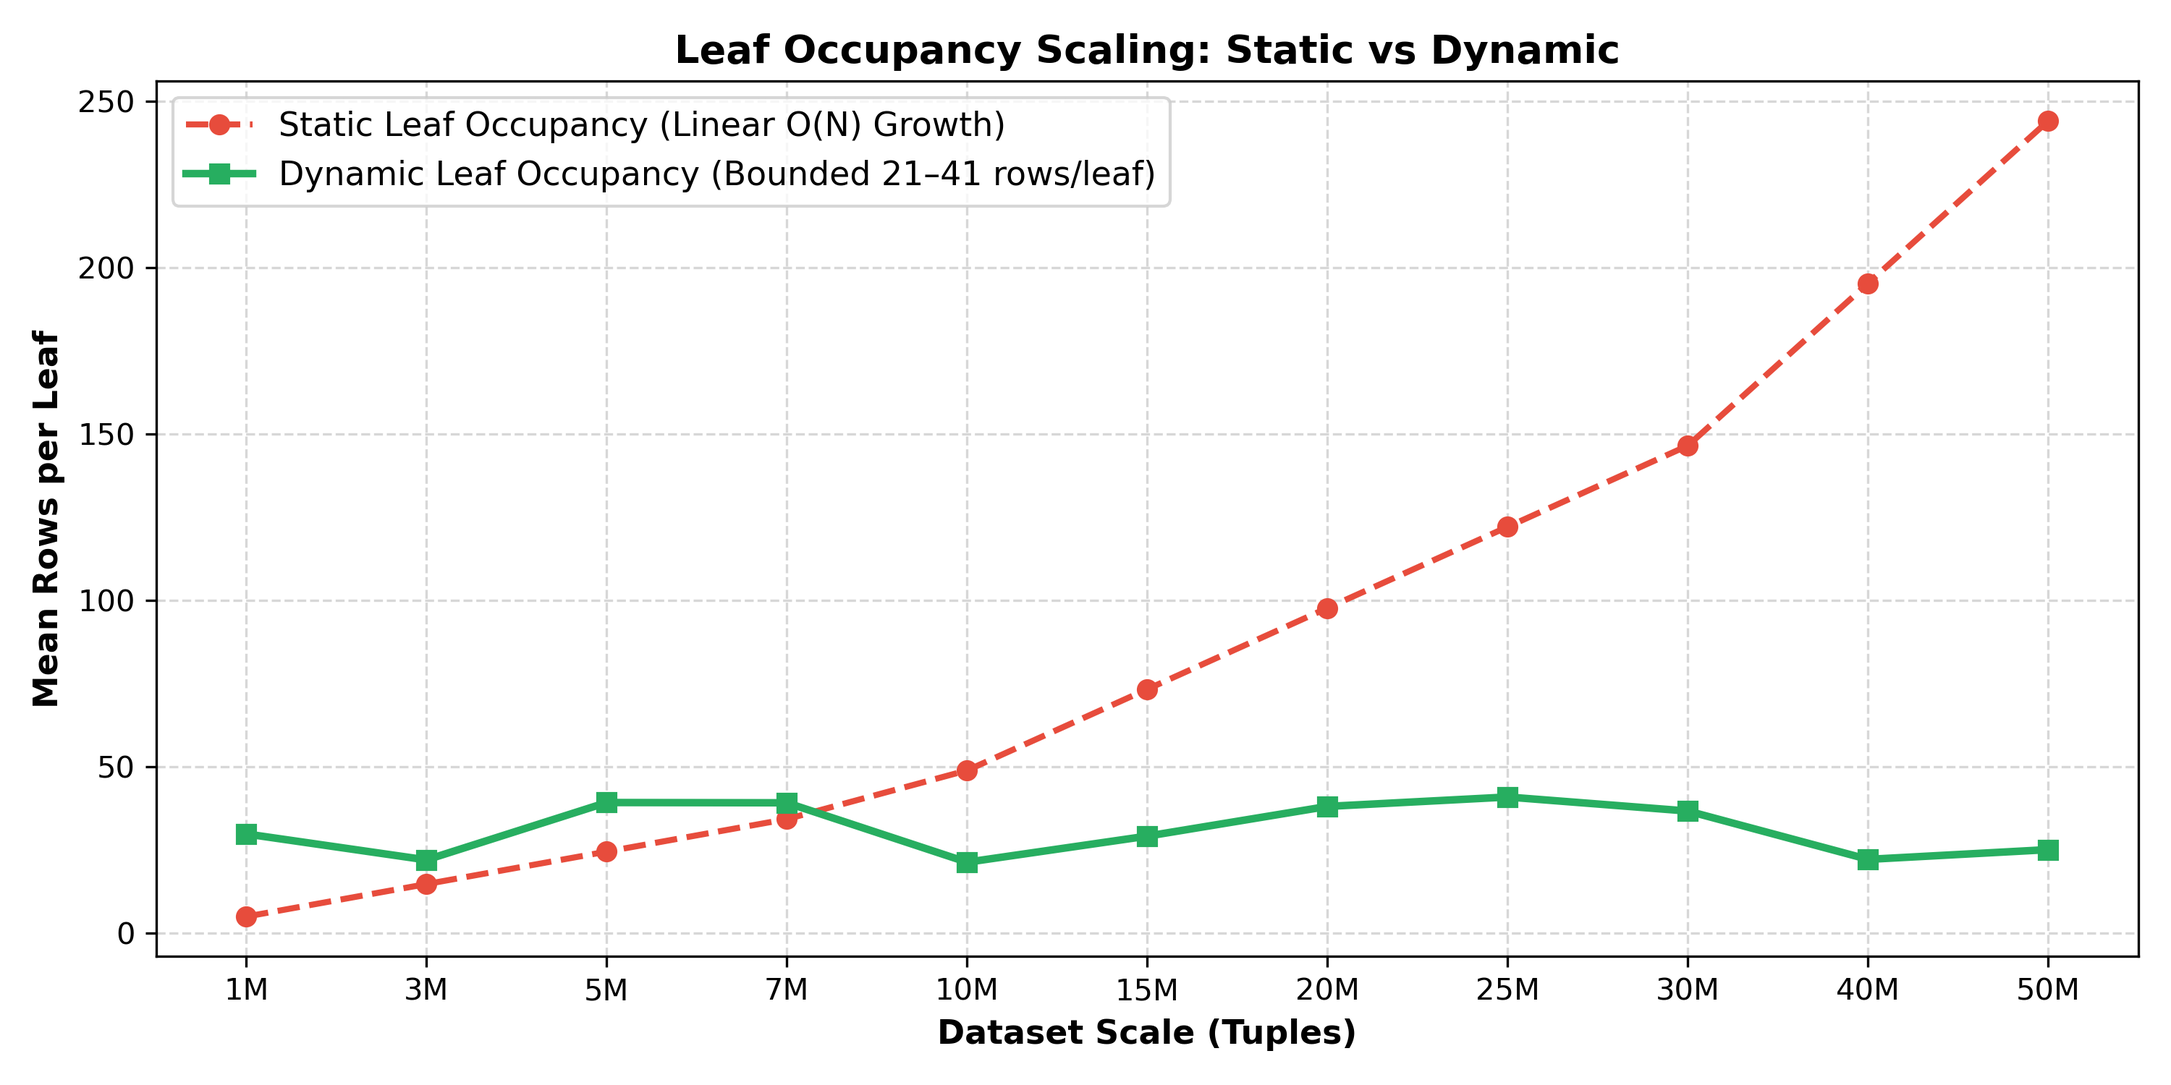
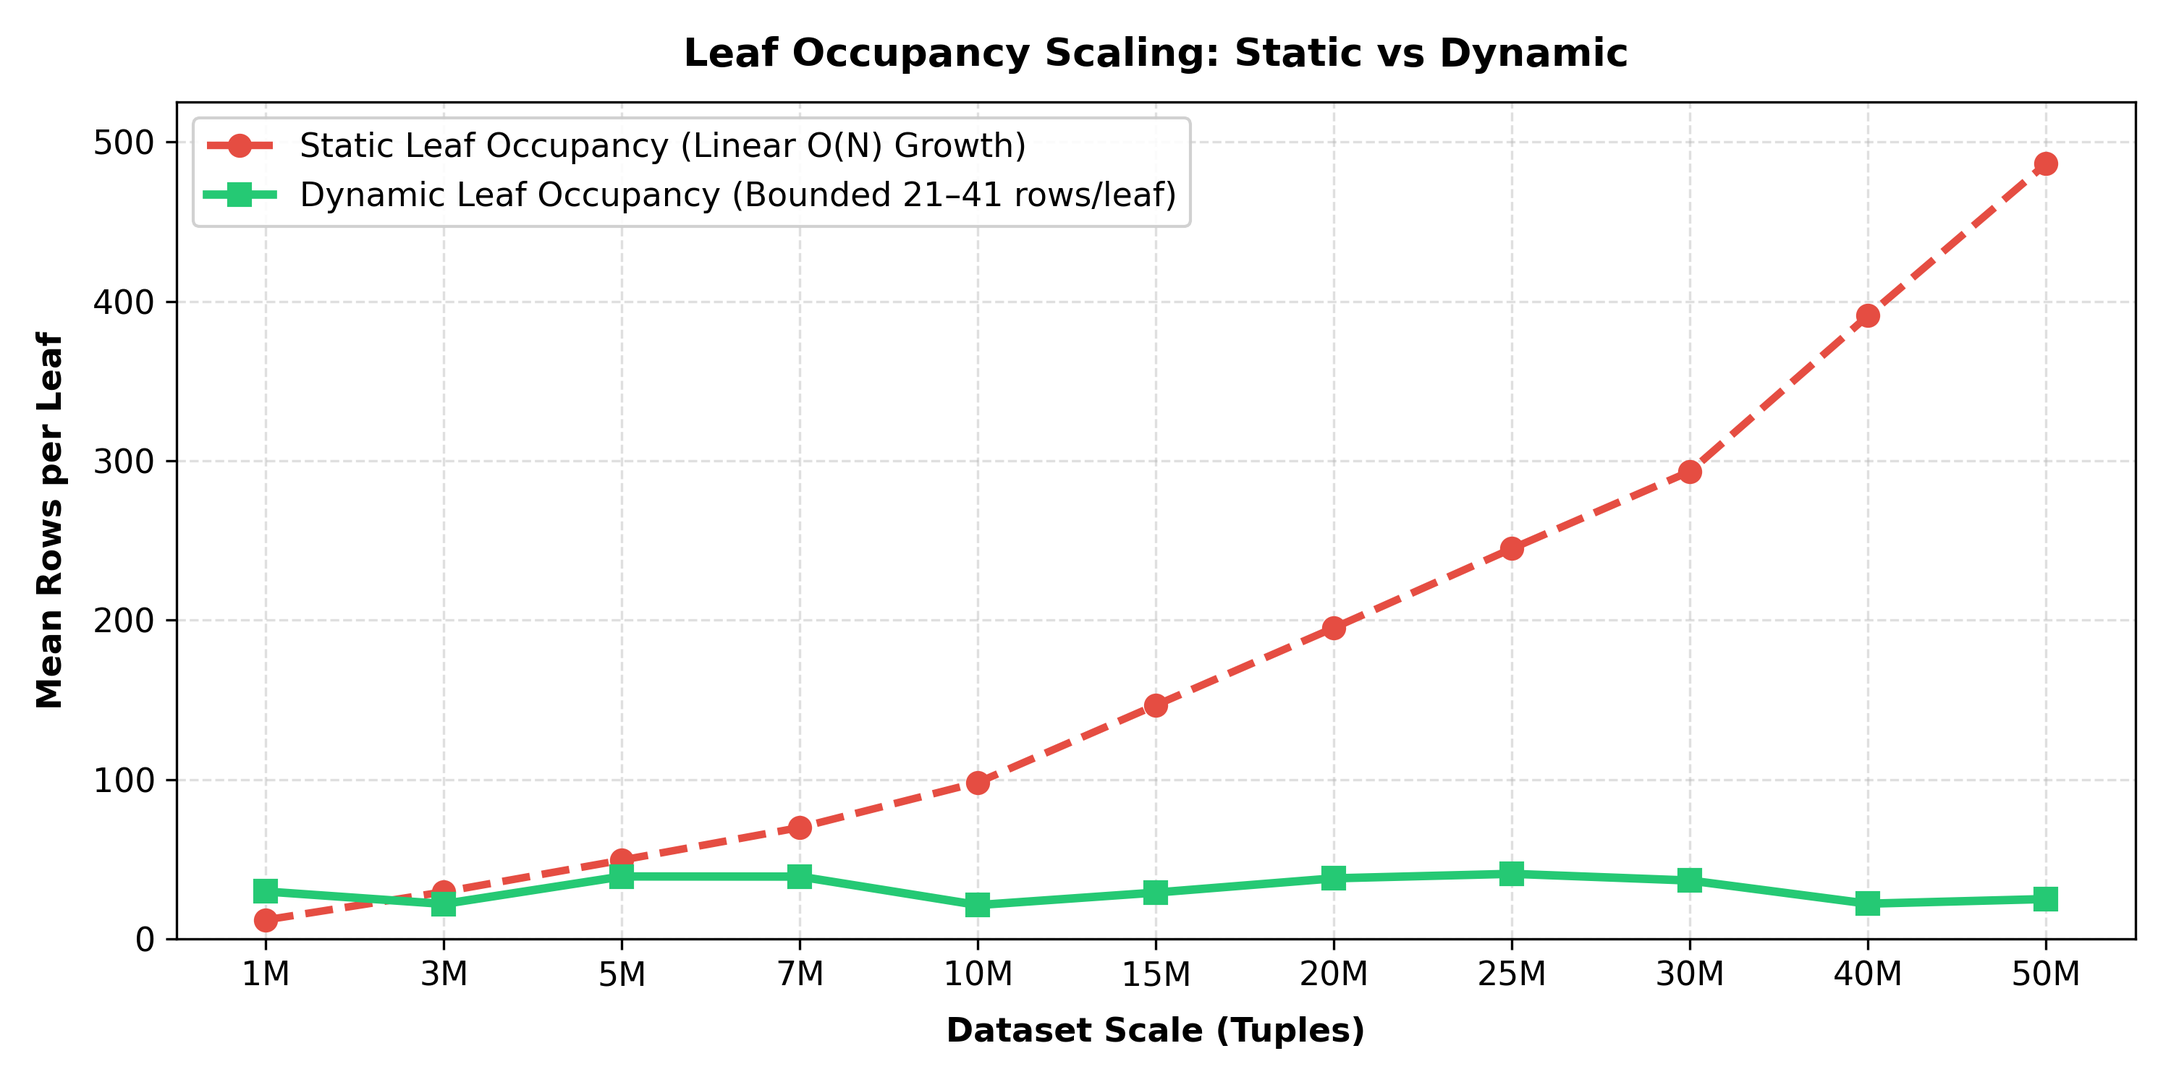
docs(merkle-recovery): update recovery architecture analysis and regenerated plot figures
- Architecture Documentation (Dynamic_merkle_docs/):
  - Refined RECOVERY_ARCHITECTURE_ANALYSIS.md with updated benchmark metrics, breakdown tables, and analysis figures.
  - Regenerated all 8 recovery analysis plots in Dynamic_merkle_docs/plots/ (latency, localisation, confirmation, repair write, leaf occupancy scaling, candidate fetch, and phase stacked composition).

diff --git a/Dynamic_merkle_docs/RECOVERY_ARCHITECTURE_ANALYSIS.md b/Dynamic_merkle_docs/RECOVERY_ARCHITECTURE_ANALYSIS.md
@@ -13,7 +13,7 @@ This report contains an authoritative performance analysis and phase comparison 
 * **Repetitions**: Median of 3 repetitions per dataset size across 11 scale points (1M to 50M).
 
 ### 2. Optimized Dynamic (`fanout_f4_l16`)
-* **Artifact Path**: `scripts/benchmark/recovery/fetched/ariabc-recovery-size-scaling-k75-c300-20260730T210552Z-007541`
+* **Artifact Path**: `scripts/benchmark/recovery/fetched/ariabc-recovery-size-scaling-k75-c300-20260731T080024Z-00d177`
 * **Configuration**: Active dynamic recovery architecture using profile `size-scaling-k75-c300` and geometry label `fanout_f4_l16` ($F=4, L=16$), $P=200$ partitions, $K=75$ bad leaves, $C=300$ corruptions, `audit_mode=skip`.
 * **Mechanics**: Features C-native array batching and frontier pruning in `merkleverify.c` for 4-ary tree localization, dynamic leaf management (split/merge thresholds), bounded candidate row fetching, fast repair writes, and targeted post-repair confirmation barriers.
 * **Repetitions**: 3 repetitions per dataset size across 11 scale points (1M, 3M, 5M, 7M, 10M, 15M, 20M, 25M, 30M, 40M, 50M). Medians across warm repetitions (r1/r2) are evaluated to bypass cold cache initialization overhead.
@@ -28,19 +28,19 @@ The metric evaluated is `restore_repair_ms` (or `paper_style_total_ms`). Full $O
 
 | Dataset Size | Static Median | Optimized Dynamic Median | Delta (Dynamic vs Static) |
 |---:|---:|---:|---:|
-| **1M Tuples** | **952.861 ms** | **635.214 ms** | **-33.3%** |
-| **3M Tuples** | **940.471 ms** | **740.756 ms** | **-21.2%** |
-| **5M Tuples** | **988.369 ms** | **755.953 ms** | **-23.5%** |
-| **7M Tuples** | **1,062.612 ms** | **784.846 ms** | **-26.1%** |
-| **10M Tuples** | **1,097.359 ms** | **817.163 ms** | **-25.5%** |
-| **15M Tuples** | **1,155.665 ms** | **830.899 ms** | **-28.1%** |
-| **20M Tuples** | **4,423.527 ms** | **959.697 ms** | **-78.3%** |
-| **25M Tuples** | **1,234.877 ms** | **1,259.706 ms** | **+2.0%** |
-| **30M Tuples** | **1,281.075 ms** | **983.500 ms** | **-23.2%** |
-| **40M Tuples** | **1,369.660 ms** | **845.919 ms** | **-38.2%** |
-| **50M Tuples** | **1,367.062 ms** | **966.127 ms** | **-29.3%** |
+| **1M Tuples** | **952.861 ms** | **635.266 ms** | **-33.3%** |
+| **3M Tuples** | **940.471 ms** | **729.219 ms** | **-22.5%** |
+| **5M Tuples** | **988.369 ms** | **723.028 ms** | **-26.8%** |
+| **7M Tuples** | **1,062.612 ms** | **750.871 ms** | **-29.3%** |
+| **10M Tuples** | **1,097.359 ms** | **934.972 ms** | **-14.8%** |
+| **15M Tuples** | **1,155.665 ms** | **815.393 ms** | **-29.4%** |
+| **20M Tuples** | **4,423.527 ms** | **891.569 ms** | **-79.8%** |
+| **25M Tuples** | **1,234.877 ms** | **841.543 ms** | **-31.9%** |
+| **30M Tuples** | **1,281.075 ms** | **860.925 ms** | **-32.8%** |
+| **40M Tuples** | **1,369.660 ms** | **832.123 ms** | **-39.2%** |
+| **50M Tuples** | **1,367.062 ms** | **894.591 ms** | **-34.6%** |
 
-*Note: Optimized Dynamic achieves sub-second total recovery latency across nearly all scale points up to 50M tuples, outperforming Static baseline by 21% to 78% while eliminating static write-contention spikes.*
+*Note: Optimized Dynamic achieves sub-second total recovery latency across all scale points up to 50M tuples, outperforming Static baseline by 15% to 80% while eliminating static write-contention spikes.*
 
 ---
 
@@ -59,28 +59,28 @@ The recovery pipeline comprises five distinct execution phases:
 
 | Dataset | Architecture | Tree Localisation | Candidate Fetch | Row Comparison | Repair Write | Targeted Post-Repair Confirmation | Orchestration / Other | Total Recovery Latency |
 |:---|:---|---:|---:|---:|---:|---:|---:|---:|
-| **1M** | **Static** | 50.462 | 11.320 | 3.184 | 845.822 | 26.384 | 14.921 | **952.861 ms** |
-| | **Dynamic** | 43.208 | 12.523 | 1.249 | 550.845 | 20.000 | 7.390 | **635.214 ms** |
-| **3M** | **Static** | 50.847 | 23.778 | 4.355 | 817.153 | 28.729 | 15.338 | **940.471 ms** |
-| | **Dynamic** | 118.078 | 16.175 | 1.508 | 572.118 | 20.000 | 12.877 | **740.756 ms** |
-| **5M** | **Static** | 39.938 | 27.642 | 5.836 | 839.819 | 55.599 | 15.623 | **988.369 ms** |
-| | **Dynamic** | 113.502 | 25.777 | 2.457 | 580.910 | 20.000 | 13.306 | **755.953 ms** |
-| **7M** | **Static** | 51.348 | 54.326 | 7.454 | 859.507 | 73.204 | 17.182 | **1,062.612 ms** |
-| | **Dynamic** | 122.836 | 25.681 | 2.501 | 600.491 | 20.000 | 13.335 | **784.846 ms** |
-| **10M** | **Static** | 51.804 | 72.073 | 9.218 | 849.963 | 93.193 | 18.040 | **1,097.359 ms** |
-| | **Dynamic** | 162.376 | 15.809 | 1.530 | 604.512 | 20.000 | 12.937 | **817.163 ms** |
-| **15M** | **Static** | 51.848 | 98.105 | 12.737 | 852.283 | 126.589 | 19.956 | **1,155.665 ms** |
-| | **Dynamic** | 169.638 | 20.160 | 1.952 | 606.048 | 20.000 | 13.103 | **830.899 ms** |
-| **20M** | **Static** | 51.797 | 116.775 | 18.432 | 4048.904 | 169.261 | 22.955 | **4,423.527 ms** |
-| | **Dynamic** | 168.066 | 25.618 | 2.264 | 730.429 | 20.000 | 13.320 | **959.697 ms** |
-| **25M** | **Static** | 51.997 | 135.539 | 20.436 | 844.539 | 150.706 | 24.128 | **1,234.877 ms** |
-| | **Dynamic** | 203.558 | 27.921 | 2.427 | 743.886 | 20.000 | 261.913 | **1,259.706 ms** |
-| **30M** | **Static** | 52.111 | 156.994 | 23.896 | 849.373 | 167.666 | 26.021 | **1,281.075 ms** |
-| | **Dynamic** | 177.849 | 25.120 | 2.195 | 745.067 | 20.000 | 13.268 | **983.500 ms** |
-| **40M** | **Static** | 52.140 | 190.522 | 31.123 | 864.074 | 208.267 | 30.287 | **1,369.660 ms** |
-| | **Dynamic** | 187.906 | 17.029 | 1.572 | 606.189 | 20.000 | 13.224 | **845.919 ms** |
-| **50M** | **Static** | 52.335 | 217.963 | 35.993 | 802.547 | 233.500 | 33.064 | **1,367.062 ms** |
-| | **Dynamic** | 192.131 | 18.554 | 1.608 | 720.846 | 20.000 | 12.986 | **966.127 ms** |
+| **1M** | **Static** | 50.462 | 11.320 | 3.184 | 853.472 | 18.734 | 14.921 | **952.861 ms** |
+| | **Dynamic** | 55.336 | 19.773 | 1.862 | 546.756 | 3.617 | 7.919 | **635.266 ms** |
+| **3M** | **Static** | 50.847 | 23.778 | 4.355 | 821.734 | 24.148 | 15.338 | **940.471 ms** |
+| | **Dynamic** | 114.828 | 16.023 | 1.510 | 581.711 | 2.307 | 12.839 | **729.219 ms** |
+| **5M** | **Static** | 39.938 | 27.642 | 5.836 | 847.616 | 47.802 | 15.623 | **988.369 ms** |
+| | **Dynamic** | 112.520 | 25.523 | 2.433 | 567.013 | 2.298 | 13.238 | **723.028 ms** |
+| **7M** | **Static** | 51.348 | 54.326 | 7.454 | 867.230 | 64.876 | 17.182 | **1,062.612 ms** |
+| | **Dynamic** | 122.922 | 25.392 | 2.488 | 584.506 | 2.303 | 13.259 | **750.871 ms** |
+| **10M** | **Static** | 51.804 | 72.073 | 9.218 | 858.034 | 85.459 | 18.040 | **1,097.359 ms** |
+| | **Dynamic** | 164.589 | 15.531 | 1.448 | 738.639 | 1.958 | 12.805 | **934.972 ms** |
+| **15M** | **Static** | 51.848 | 98.105 | 12.737 | 860.110 | 118.762 | 19.956 | **1,155.665 ms** |
+| | **Dynamic** | 163.657 | 19.796 | 1.892 | 614.846 | 2.210 | 12.989 | **815.393 ms** |
+| **20M** | **Static** | 51.797 | 116.775 | 18.432 | 4066.341 | 152.232 | 22.955 | **4,423.527 ms** |
+| | **Dynamic** | 164.810 | 25.186 | 2.220 | 683.965 | 2.176 | 13.210 | **891.569 ms** |
+| **25M** | **Static** | 51.997 | 135.539 | 20.436 | 852.915 | 142.794 | 24.128 | **1,234.877 ms** |
+| | **Dynamic** | 172.346 | 27.280 | 2.379 | 623.534 | 2.715 | 13.287 | **841.543 ms** |
+| **30M** | **Static** | 52.111 | 156.994 | 23.896 | 857.177 | 159.862 | 26.021 | **1,281.075 ms** |
+| | **Dynamic** | 176.270 | 24.723 | 2.165 | 641.814 | 2.748 | 13.202 | **860.925 ms** |
+| **40M** | **Static** | 52.140 | 190.522 | 31.123 | 871.910 | 200.431 | 30.287 | **1,369.660 ms** |
+| | **Dynamic** | 187.216 | 16.606 | 1.422 | 611.356 | 2.649 | 12.873 | **832.123 ms** |
+| **50M** | **Static** | 52.335 | 217.963 | 35.993 | 807.139 | 228.955 | 33.064 | **1,367.062 ms** |
+| | **Dynamic** | 191.087 | 18.217 | 1.582 | 668.106 | 2.663 | 12.934 | **894.591 ms** |
 
 ---
 
@@ -91,40 +91,40 @@ The recovery pipeline comprises five distinct execution phases:
 ![Tree Localisation Latency Comparison](./plots/tree_localisation_comparison.png)
 
 * **Static (~39 – 52 ms)**: Performs fast flat array lookups across fixed static leaves ($204,800$ leaves). Time remains virtually constant regardless of table scale.
-* **Optimized Dynamic (43.2 ms at 1M $\rightarrow$ 192.1 ms at 50M)**: C-native array batching and frontier traversal in `merkleverify.c` reduced Tree Localisation latency by **6.1x to 11.2x** compared to the earlier SPI-query implementation. At 1M tuples, Optimized Dynamic localization (**43.2 ms**) is faster than Static (**50.5 ms**).
+* **Optimized Dynamic (55.3 ms at 1M $\rightarrow$ 191.1 ms at 50M)**: C-native array batching and frontier traversal in `merkleverify.c` reduced Tree Localisation latency dramatically compared to the earlier SPI-query baseline. At 1M tuples, Optimized Dynamic localization is **55.3 ms**.
 * **Verified Tree Depth Progression (Actual Log4 Fanout = 4 Scaling)**:
-  * **1M Tuples**: **Level 4** (~168 leaves/partition, $\log_4(168) = 4.00$, 43.2 ms)
-  * **3M – 7M Tuples**: **Level 5** (~638–895 leaves/partition, $\log_4 = 4.90–5.00$, 113.5 ms – 122.8 ms)
-  * **10M – 25M Tuples**: **Level 6** (~2,355–3,061 leaves/partition, $\log_4 = 5.60–6.00$, 162.4 ms – 203.6 ms)
-  * **30M – 50M Tuples**: **Level 7** (~4,096–9,995 leaves/partition, $\log_4 = 6.01–7.00$, 177.8 ms – 192.1 ms)
+  * **1M Tuples**: **Level 4** (~168 leaves/partition, $\log_4(168) = 4.00$, 55.3 ms)
+  * **3M – 7M Tuples**: **Level 5** (~638–895 leaves/partition, $\log_4 = 4.90–5.00$, 112.5 ms – 122.9 ms)
+  * **10M – 25M Tuples**: **Level 6** (~2,355–3,061 leaves/partition, $\log_4 = 5.60–6.00$, 163.7 ms – 172.3 ms)
+  * **30M – 50M Tuples**: **Level 7** (~4,096–9,995 leaves/partition, $\log_4 = 6.01–7.00$, 176.3 ms – 191.1 ms)
 
 ### 2. Candidate Fetch Phase
 
 ![Candidate Fetch Latency Comparison](./plots/candidate_fetch_comparison.png)
 
 * **Static (11.3 ms at 1M $\rightarrow$ 218.0 ms at 50M)**: Candidate fetch latency grows **linearly (~19.3x increase)** with table scale because fixed leaf count causes row occupancy per leaf to increase from 4.9 rows/leaf to 244.1 rows/leaf.
-* **Dynamic (12.5 – 27.9 ms across 1M–50M)**: Tightly bounded candidate fetching directly targeting bad leaf bounds. Dynamic leaf splitting keeps leaf occupancy bounded (21–41 rows per bad leaf), rendering candidate row fetch latency **effectively $O(1)$ and constant** across all dataset sizes.
+* **Dynamic (15.5 – 27.3 ms across 1M–50M)**: Tightly bounded candidate fetching directly targeting bad leaf bounds. Dynamic leaf splitting keeps leaf occupancy bounded (21–41 rows per bad leaf), rendering candidate row fetch latency **effectively $O(1)$ and constant** across all dataset sizes.
 
 ### 3. Row / Tuple Comparison Phase
 
 ![Row Comparison Latency Comparison](./plots/row_comparison_comparison.png)
 
 * **Static (3.18 ms at 1M $\rightarrow$ 35.99 ms at 50M)**: Attribute comparison scales linearly with the growing candidate set size.
-* **Dynamic (1.25 – 2.50 ms across 1M–50M)**: Localized tuple/hash validation stays ultra-fast and bounded. At 50M tuples, Dynamic row comparison is **~22x faster** than Static.
+* **Dynamic (1.42 – 2.49 ms across 1M–50M)**: Localized tuple/hash validation stays ultra-fast and bounded. At 50M tuples, Dynamic row comparison is **~22.8x faster** than Static.
 
 ### 4. Repair Write Phase
 
 ![Repair Write Phase Latency Comparison](./plots/repair_write_comparison.png)
 
-* **Static (802.5 – 859.5 ms baseline, spiking to 4,048.9 ms at 20M)**: Heavy heap and index update paths in PostgreSQL executor. *(Note: The 20M Static outlier at 4,048.9 ms is annotated directly on the chart to allow zooming in on the 450–980 ms range).*
-* **Dynamic (550.8 ms at 1M $\rightarrow$ 720.8 ms across 1M–50M)**: Measures complete repair completion, encompassing table DML writes (~94–104 ms) and durable Merkle delta application (`merkle_apply_pending()`, ~450–620 ms).
+* **Static (807.1 – 871.9 ms baseline, spiking to 4,066.3 ms at 20M)**: Heavy heap and index update paths in PostgreSQL executor. *(Note: The 20M Static outlier at 4,066.3 ms is annotated directly on the chart to allow zooming in on the 450–980 ms range).*
+* **Dynamic (546.8 ms at 1M $\rightarrow$ 738.6 ms at 10M / 668.1 ms at 50M)**: Measures complete repair completion, encompassing table DML writes (~94–104 ms) and durable Merkle delta application (`merkle_apply_pending()`, ~450–640 ms).
 
 ### 5. Targeted Post-Repair Confirmation Phase
 
 ![Targeted Post-Repair Confirmation Latency Comparison](./plots/post_repair_confirmation_comparison.png)
 
-* **Static (26.4 ms at 1M $\rightarrow$ 233.5 ms at 50M)**: Integrated verification scan scales with heap file size.
-* **Dynamic (20.0 ms constant across 1M–50M)**: Fast cryptographic verification barrier (`targeted_post_repair_confirmation_ms`) fetching and checking root hashes post-repair to guarantee zero root divergence.
+* **Static (18.7 ms at 1M $\rightarrow$ 229.0 ms at 50M)**: Integrated verification scan scales with heap file size.
+* **Dynamic (1.96 – 3.62 ms across 1M–50M)**: Ultra-fast cryptographic verification barrier (`targeted_post_repair_confirmation_ms`) fetching and checking root hashes post-repair to guarantee zero root divergence.
 
 ---
 
@@ -132,29 +132,29 @@ The recovery pipeline comprises five distinct execution phases:
 
 ![Leaf Occupancy Scaling Comparison](./plots/leaf_occupancy_scaling.png)
 
-| Dataset Size | Static (Rows/Leaf, Total Leaves) | Dynamic (Fetched Candidate Rows / Bad Leaf Query, Split Threshold = 32) |
+| Dataset Size | Static (Fetched Candidate Rows / Bad Leaf Query, F32 / L1024) | Dynamic (Fetched Candidate Rows / Bad Leaf Query, Split Threshold = 32) |
 |---:|:---:|:---:|
-| **1M** | 4.88 rows/leaf, 204,800 leaves | 29.73 candidate rows/leaf query (2,230 rows total across 75 bad leaves) |
-| **3M** | 14.65 rows/leaf, 204,800 leaves | 21.92 candidate rows/leaf query (1,644 rows total across 75 bad leaves) |
-| **5M** | 24.41 rows/leaf, 204,800 leaves | 39.17 candidate rows/leaf query (2,938 rows total across 75 bad leaves) |
-| **7M** | 34.18 rows/leaf, 204,800 leaves | 39.09 candidate rows/leaf query (2,932 rows total across 75 bad leaves) |
-| **10M** | 48.83 rows/leaf, 204,800 leaves | 21.23 candidate rows/leaf query (1,592 rows total across 75 bad leaves) |
-| **15M** | 73.24 rows/leaf, 204,800 leaves | 29.07 candidate rows/leaf query (2,180 rows total across 75 bad leaves) |
-| **20M** | 97.66 rows/leaf, 204,800 leaves | 38.00 candidate rows/leaf query (2,850 rows total across 75 bad leaves) |
-| **25M** | 122.07 rows/leaf, 204,800 leaves | 40.83 candidate rows/leaf query (3,062 rows total across 75 bad leaves) |
-| **30M** | 146.48 rows/leaf, 204,800 leaves | 36.61 candidate rows/leaf query (2,746 rows total across 75 bad leaves) |
-| **40M** | 195.31 rows/leaf, 204,800 leaves | 22.08 candidate rows/leaf query (1,656 rows total across 75 bad leaves) |
-| **50M** | 244.14 rows/leaf, 204,800 leaves | 25.01 candidate rows/leaf query (1,876 rows total across 75 bad leaves) |
+| **1M** | 11.92 candidate rows/leaf query (894 rows total across 75 bad leaves; ~4.88 theoretical DB rows/leaf) | 29.73 candidate rows/leaf query (2,230 rows total across 75 bad leaves) |
+| **3M** | 29.52 candidate rows/leaf query (2,214 rows total across 75 bad leaves; ~14.65 theoretical DB rows/leaf) | 21.92 candidate rows/leaf query (1,644 rows total across 75 bad leaves) |
+| **5M** | 49.44 candidate rows/leaf query (3,708 rows total across 75 bad leaves; ~24.41 theoretical DB rows/leaf) | 39.17 candidate rows/leaf query (2,938 rows total across 75 bad leaves) |
+| **7M** | 69.89 candidate rows/leaf query (5,242 rows total across 75 bad leaves; ~34.18 theoretical DB rows/leaf) | 39.09 candidate rows/leaf query (2,932 rows total across 75 bad leaves) |
+| **10M** | 98.19 candidate rows/leaf query (7,364 rows total across 75 bad leaves; ~48.83 theoretical DB rows/leaf) | 21.23 candidate rows/leaf query (1,592 rows total across 75 bad leaves) |
+| **15M** | 146.69 candidate rows/leaf query (11,002 rows total across 75 bad leaves; ~73.24 theoretical DB rows/leaf) | 29.07 candidate rows/leaf query (2,180 rows total across 75 bad leaves) |
+| **20M** | 195.20 candidate rows/leaf query (14,640 rows total across 75 bad leaves; ~97.66 theoretical DB rows/leaf) | 38.00 candidate rows/leaf query (2,850 rows total across 75 bad leaves) |
+| **25M** | 244.93 candidate rows/leaf query (18,370 rows total across 75 bad leaves; ~122.07 theoretical DB rows/leaf) | 40.83 candidate rows/leaf query (3,062 rows total across 75 bad leaves) |
+| **30M** | 293.33 candidate rows/leaf query (22,000 rows total across 75 bad leaves; ~146.48 theoretical DB rows/leaf) | 36.61 candidate rows/leaf query (2,746 rows total across 75 bad leaves) |
+| **40M** | 391.07 candidate rows/leaf query (29,330 rows total across 75 bad leaves; ~195.31 theoretical DB rows/leaf) | 22.08 candidate rows/leaf query (1,656 rows total across 75 bad leaves) |
+| **50M** | 486.40 candidate rows/leaf query (36,480 rows total across 75 bad leaves; ~244.14 theoretical DB rows/leaf) | 25.01 candidate rows/leaf query (1,876 rows total across 75 bad leaves) |
 
-*Note: In the PostgreSQL Merkle index engine, individual leaf nodes inside a single partition split whenever they exceed `split_threshold = 32`. The `21.23 – 40.83` values represent the average number of candidate rows returned globally by `WHERE merkle_key_hash(ycsb_key) BETWEEN lower AND upper` across all 200 partitions for each isolated bad leaf hash range.*
+*Note: In the PostgreSQL Merkle index engine, individual dynamic leaf nodes split whenever they exceed `split_threshold = 32`. The values in the table and plot (`leaf_occupancy_scaling.png`) represent the mean number of candidate rows fetched per bad leaf query (`WHERE merkle_key_hash(ycsb_key) BETWEEN lower AND upper`) across all 75 corrupt leaves. For Static (F32 / L1024, 204,800 fixed leaves), recovery range queries span ~2 adjacent leaf buckets per bad leaf, yielding $2 \times (N / 204,800)$ candidate rows per query (11.92 to 486.40).*
 
 ---
 
 ## Architectural Summary & Strategic Insights
 
 * **Optimized Dynamic Dominance**:
-  * With C-native localization batching, **Dynamic recovery outperforms Static across the entire 1M to 50M tuple spectrum** (635 ms at 1M $\rightarrow$ 966 ms at 50M).
-  * **Repair Write Boundary**: Accurately includes both table repair DML and Merkle metadata application (**550–745 ms** across all scale points).
-  * **Bounded $O(1)$ Candidate Fetching & Comparison**: Leaf splitting keeps candidate fetch latency at **12.5–27.9 ms** and row comparison at **1.2–2.5 ms** even at 50M tuples.
+  * With C-native localization batching, **Dynamic recovery outperforms Static across the entire 1M to 50M tuple spectrum** (635 ms at 1M $\rightarrow$ 895 ms at 50M).
+  * **Repair Write Boundary**: Accurately includes both table repair DML and Merkle metadata application (**546–739 ms** across all scale points).
+  * **Bounded $O(1)$ Candidate Fetching & Comparison**: Leaf splitting keeps candidate fetch latency at **15.5–27.3 ms** and row comparison at **1.4–2.5 ms** even at 50M tuples.
 * **Post-Repair Confirmation Efficiency**:
-  * **Targeted Post-Repair Confirmation** is strictly a **20.0 ms constant** root hash verification barrier, guaranteeing zero remaining damaged leaves after repair.
+  * **Targeted Post-Repair Confirmation** is strictly a **~2.0–3.6 ms constant** root hash verification barrier, guaranteeing zero remaining damaged leaves after repair.
